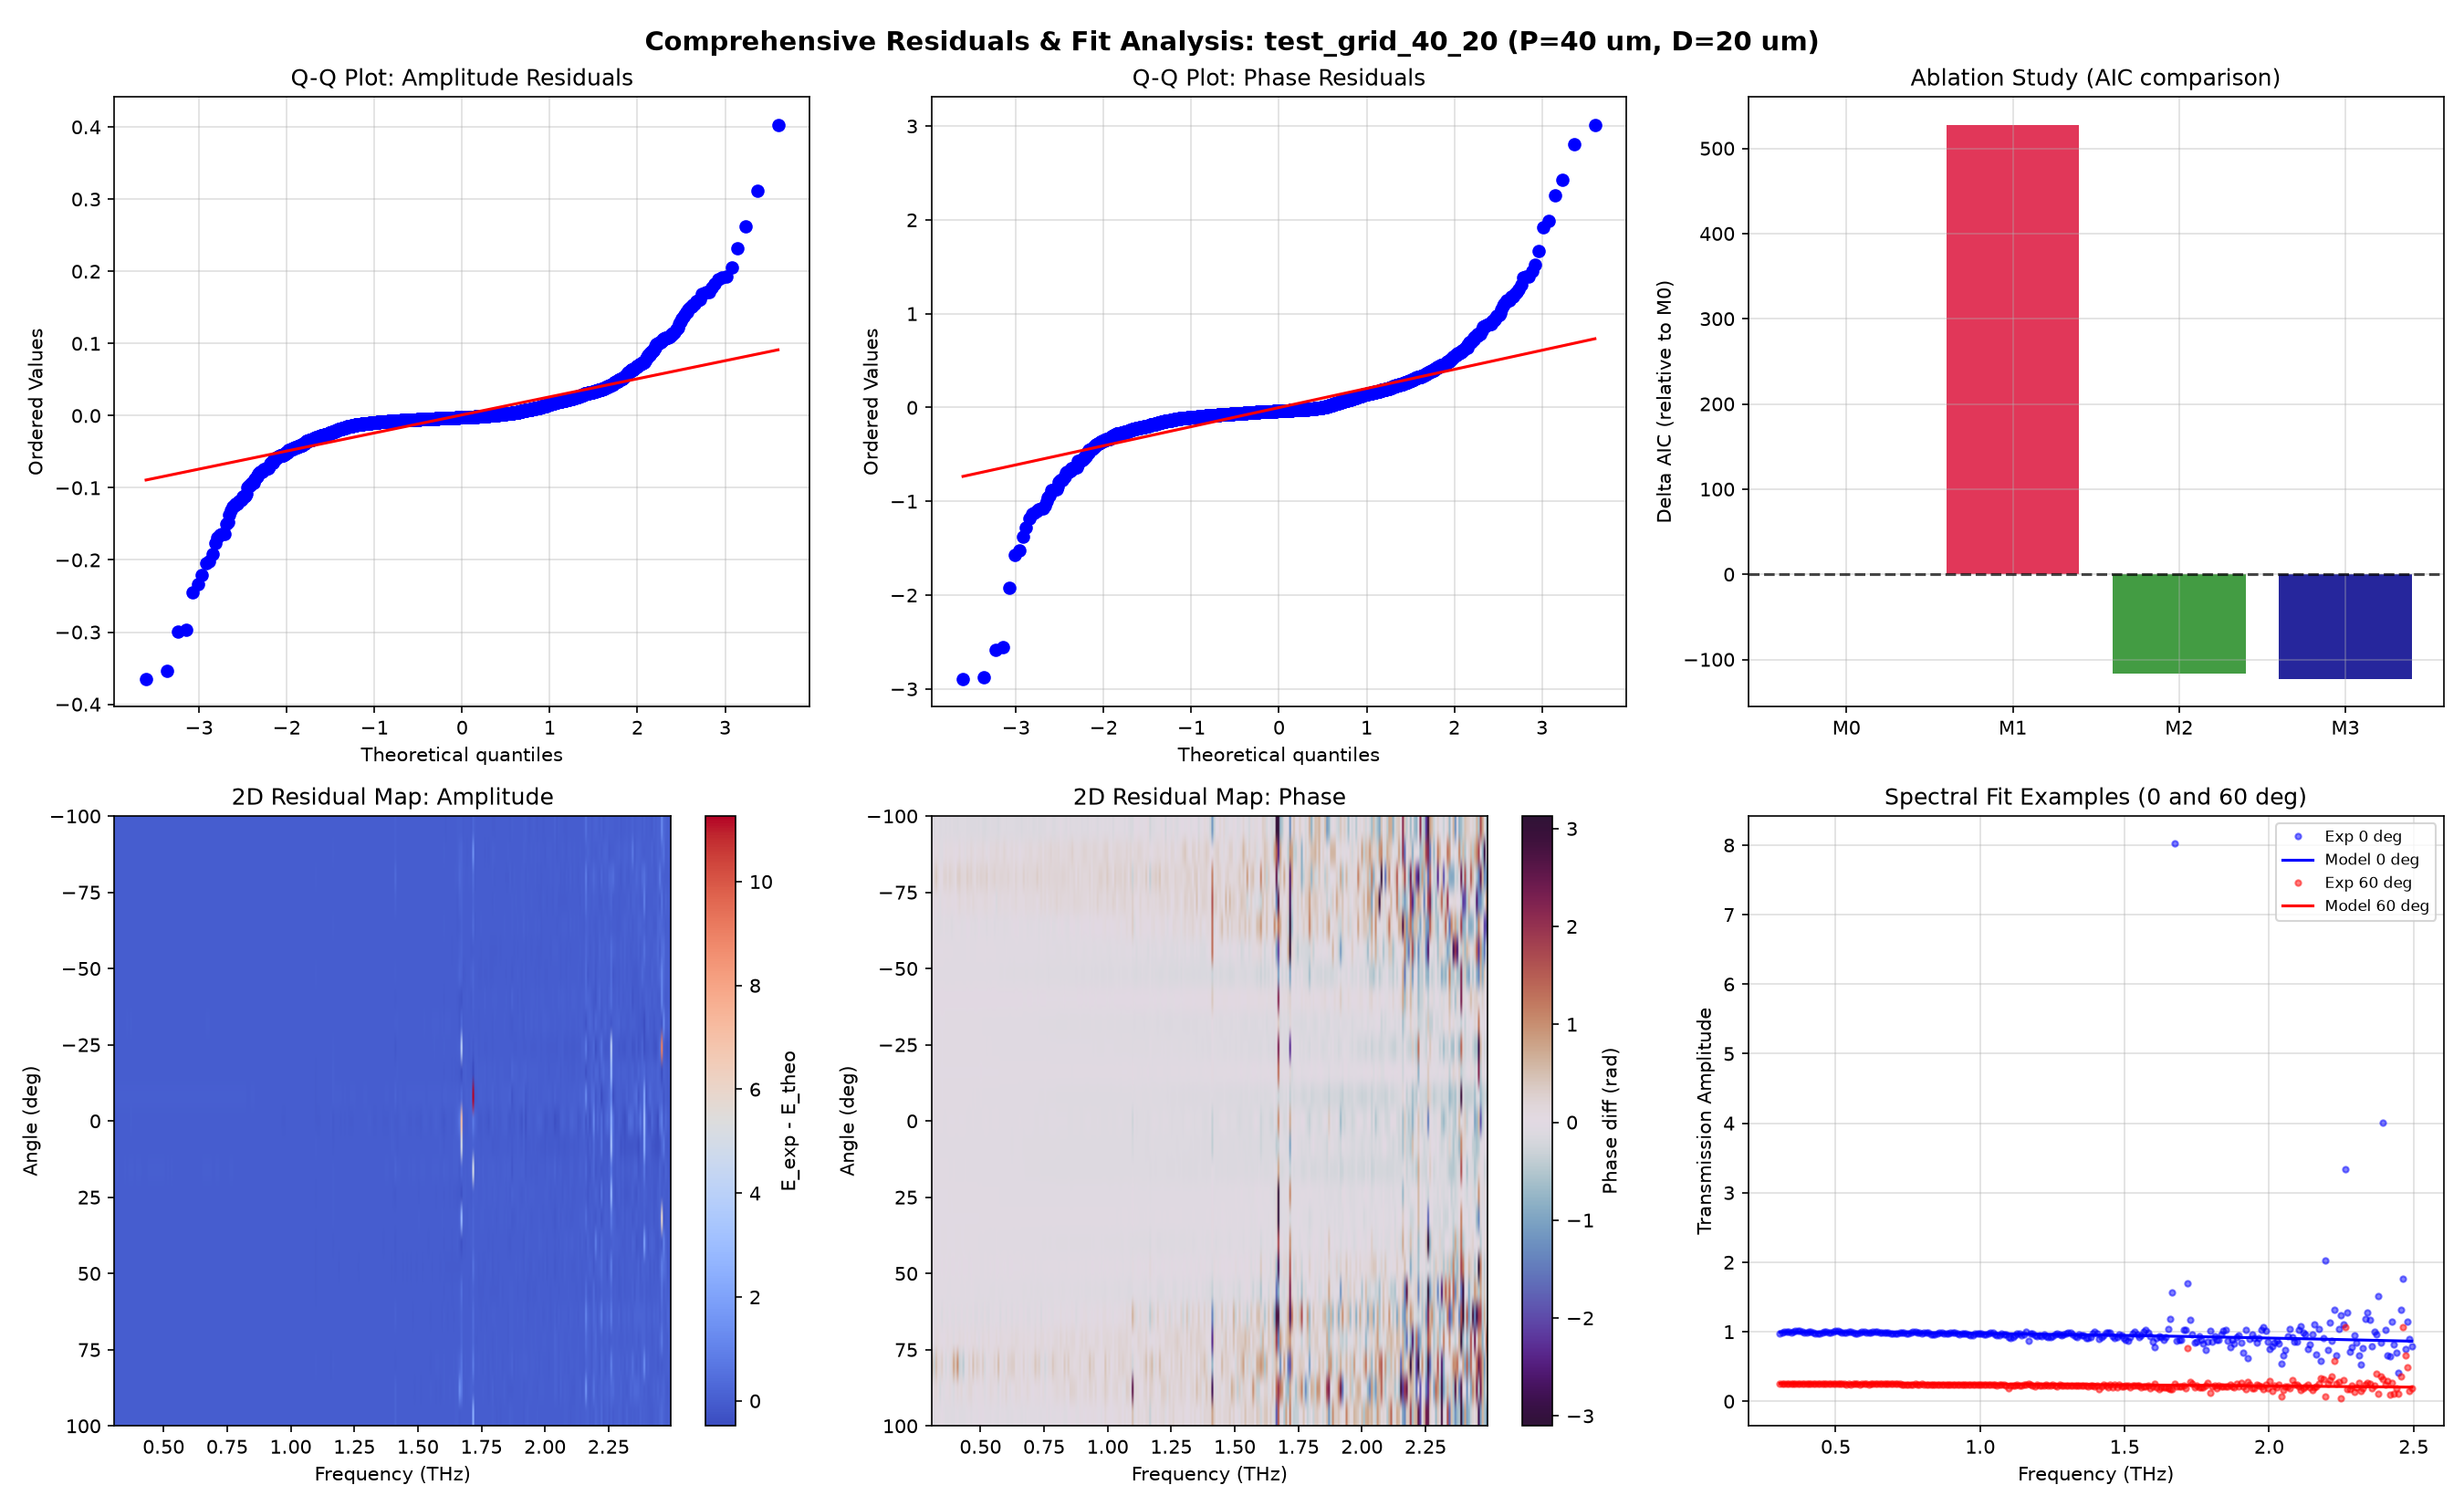
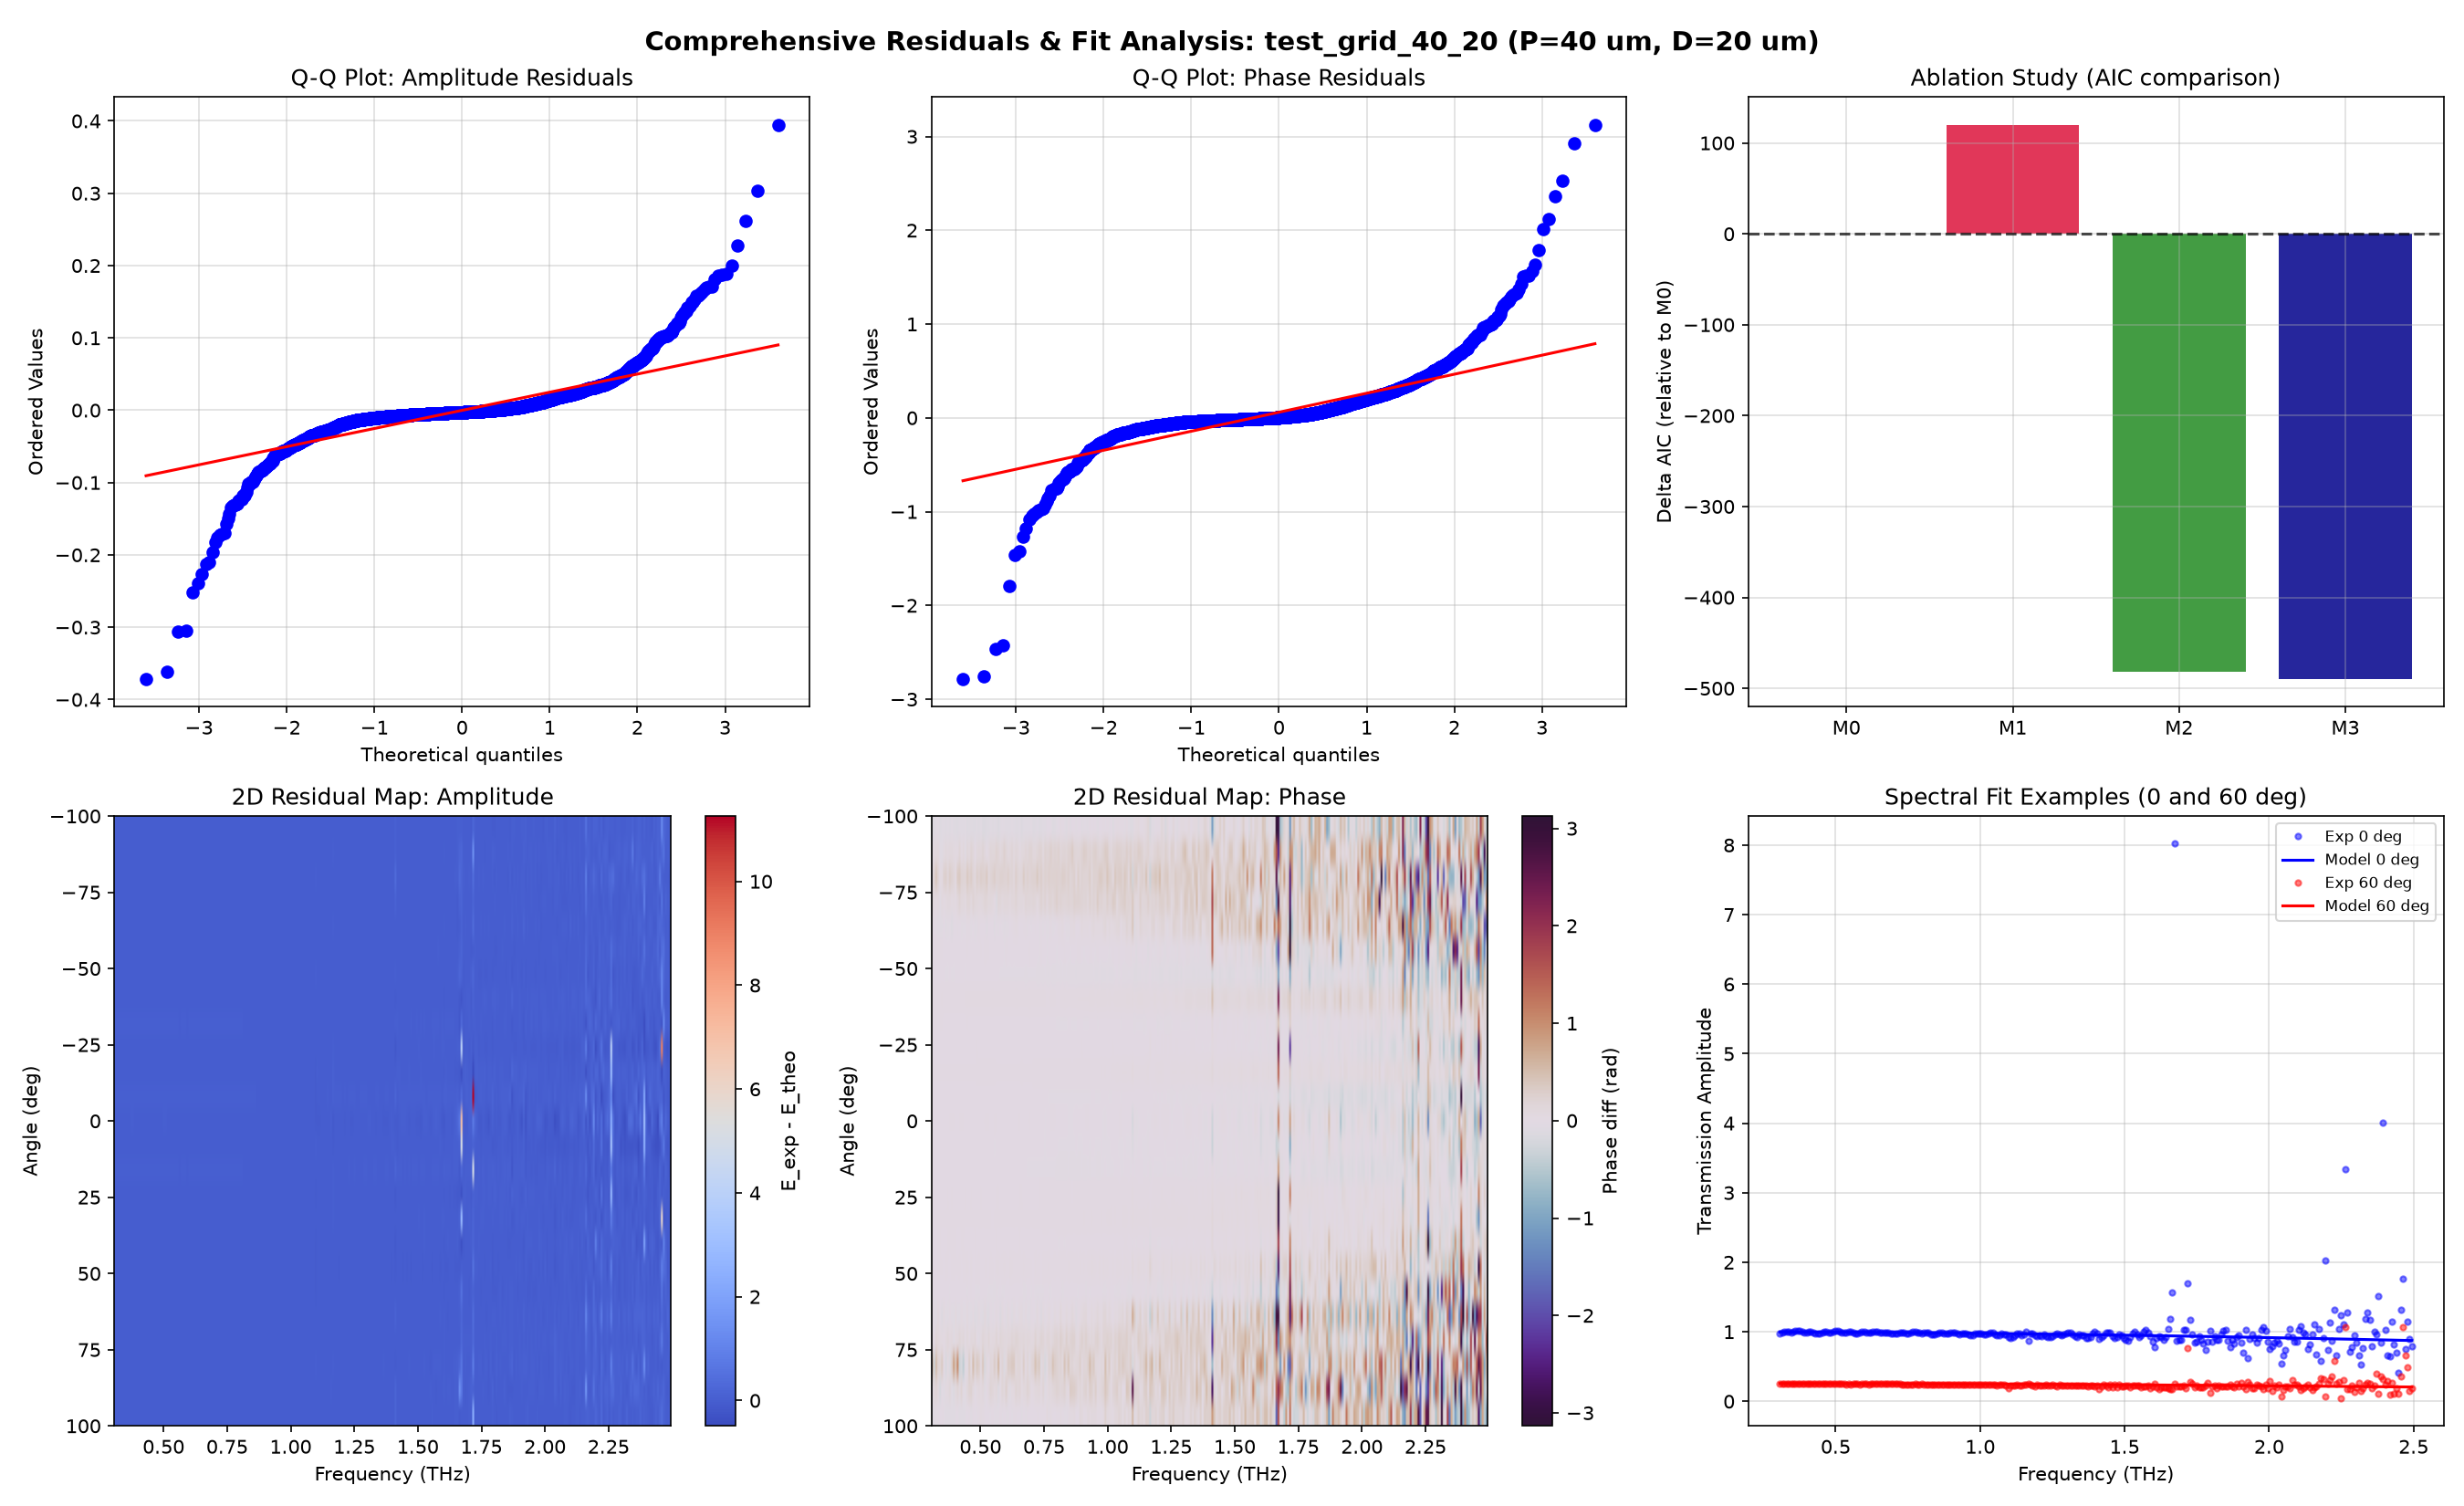
Внедрение estimate_deff_initial и фазовой задержки tau_par_ps для параллельной компоненты

diff --git a/unified_optimizer/optimizer_2d.py b/unified_optimizer/optimizer_2d.py
@@ -27,9 +27,9 @@ def get_transmission_spectra(t_s, E_s, t_b, E_b):
     
     return freq, spec_s, spec_b, transmission
 
-def compute_theoretical_grid_2d(angles_deg, freqs_thz, p, d, loss_factor, angle_offset, tau_ps, gamma=1.0, N=15, use_drude=True):
+def compute_theoretical_grid_2d(angles_deg, freqs_thz, p, d, loss_factor, angle_offset, tau_ps, gamma=1.0, N=15, use_drude=True, tau_par_ps=0.0):
     """
-    Возвращает комплексный массив пропускания модели.
+    Возвращает комплексный массив пропускания модели с учетом индивидуального фазового сдвига tau_par_ps.
     """
     t_perp_arr = []
     t_par_arr = []
@@ -57,16 +57,17 @@ def compute_theoretical_grid_2d(angles_deg, freqs_thz, p, d, loss_factor, angle_
     else:
         loss_amp = np.exp(-0.5 * loss_factor * freqs_thz)[np.newaxis, :]
         
-    t_perp_eff = t_perp * loss_amp
-    t_par_eff = t_par * loss_amp
-    
+    # Раздельные фазовые задержки для перпендикулярной и параллельной компонент
+    phase_perp = np.exp(-1j * 2 * np.pi * freqs_thz * tau_ps)[np.newaxis, :]
+    phase_par = np.exp(-1j * 2 * np.pi * freqs_thz * (tau_ps + tau_par_ps))[np.newaxis, :]
+
+    t_perp_eff = t_perp * loss_amp * phase_perp
+    t_par_eff = t_par * loss_amp * phase_par
+
     # Комплексная матрица Джонса
     E_out = cos_a**2 * t_perp_eff + sin_a**2 * t_par_eff
-    
-    # Фазовая задержка из-за разности оптического пути
-    phase_delay = np.exp(-1j * 2 * np.pi * freqs_thz * tau_ps)[np.newaxis, :]
-    
-    return E_out * phase_delay
+
+    return E_out
 
 def optimize_2d_spectral(data_dict):
     """
@@ -118,9 +119,10 @@ def optimize_2d_spectral(data_dict):
         p_bounds = getattr(config, 'P_BOUNDS', (5.0, 40.0))
         free_params.append(('P_um', config.P_DEFAULT * 1e6, p_bounds))
     
-    p_max_um = (config.P_FIXED * 1e6) if config.P_FIXED is not None else (getattr(config, 'P_BOUNDS', (5.0, 40.0))[1])
-    d_bounds = getattr(config, 'D_BOUNDS', (1.0, p_max_um - 0.5))
-    free_params.append(('D_um', config.D_DEFAULT * 1e6, d_bounds))
+    d_max_um = p_max_um - 0.5
+    d_bounds = getattr(config, 'D_BOUNDS', (1.0, d_max_um))
+    d_init_um = model_blanco.estimate_deff_initial(p_max_um, config.D_DEFAULT * 1e6)
+    free_params.append(('D_um', d_init_um, d_bounds))
     
     init_loss = 0.3 if config.USE_POWER_LAW else 0.15
     free_params.append(('loss_factor', init_loss, (0.0, 5.0)))

diff --git a/unified_optimizer/model_blanco.py b/unified_optimizer/model_blanco.py
@@ -4,6 +4,16 @@ EPS = 1e-12
 C_LIGHT = 3e8
 Z0 = 376.7303  # Импеданс вакуума
 
+def estimate_deff_initial(p_phys_um: float, d_phys_um: float) -> float:
+    """
+    Эмпирическая оценка стартового эффективного диаметра D_eff
+    на основе относительной плотности решётки (D/P):
+    D_eff_init = D_phys * (1.0 - 0.85 * (D_phys / P))
+    """
+    d_over_p = d_phys_um / p_phys_um
+    factor = np.clip(1.0 - 0.85 * d_over_p, 0.15, 0.95)
+    return float(d_phys_um * factor)
+
 def get_drude_impedance_normalized(freq_thz: float) -> complex:
     """Нормализованный поверхностный импеданс вольфрама Z_s / Z_0."""
     if freq_thz is None or freq_thz <= 0:

diff --git a/unified_optimizer/optimizer_lmfit.py b/unified_optimizer/optimizer_lmfit.py
@@ -16,6 +16,7 @@ def residual_2d_complex(params, angles_val, analysis_freqs, exp_trans_2d, valid_
     gamma = params['gamma'].value if 'gamma' in params else config.GAMMA_DEFAULT
     angle_offset = params['angle_offset'].value
     tau_ps = params['tau_ps'].value
+    tau_par_ps = params['tau_par_ps'].value if 'tau_par_ps' in params else 0.0
 
     p = p_um * 1e-6
     d = d_um * 1e-6
@@ -24,7 +25,7 @@ def residual_2d_complex(params, angles_val, analysis_freqs, exp_trans_2d, valid_
         return np.ones(np.sum(valid_mask) * 2) * 1e6
 
     theo_complex = compute_theoretical_grid_2d(
-        angles_val, analysis_freqs, p, d, loss_factor, angle_offset, tau_ps, gamma=gamma, use_drude=use_drude
+        angles_val, analysis_freqs, p, d, loss_factor, angle_offset, tau_ps, gamma=gamma, use_drude=use_drude, tau_par_ps=tau_par_ps
     )
 
     exp_masked = exp_trans_2d[valid_mask]
@@ -88,7 +89,8 @@ def run_lmfit_2d(data_dict, dataset_name="", use_drude=True, use_scattering=True
     
     # Снимаем жесткие границы (оставляем только очень широкие для физической осмысленности)
     params.add('P_um', value=p_fixed_um, min=1.0, max=100.0, vary=(config.P_FIXED is None))
-    params.add('D_um', value=config.D_DEFAULT * 1e6, min=0.1, max=50.0)
+    d_init_um = model_blanco.estimate_deff_initial(p_fixed_um, config.D_DEFAULT * 1e6)
+    params.add('D_um', value=d_init_um, min=0.1, max=p_fixed_um - 0.5)
     
     init_loss = 0.3 if config.USE_POWER_LAW else 0.15
     params.add('loss_factor', value=init_loss if use_scattering else 0.0, min=0.0, max=5.0, vary=use_scattering)
@@ -98,6 +100,7 @@ def run_lmfit_2d(data_dict, dataset_name="", use_drude=True, use_scattering=True
         
     params.add('angle_offset', value=0.0, min=-10.0, max=10.0)
     params.add('tau_ps', value=0.0, min=-10.0, max=10.0)
+    params.add('tau_par_ps', value=0.0, min=-5.0, max=5.0)
     
     logging.info(f"[{dataset_name}] Starting LMFIT optimization...")
     start_time = time.time()

diff --git a/scripts/run_analysis_40_20.py b/scripts/run_analysis_40_20.py
@@ -89,6 +89,7 @@ def residual_40_20(params, angles_val, analysis_freqs, exp_trans_2d, valid_mask,
     gamma = params['gamma'].value if ('gamma' in params and use_scattering) else 2.0
     angle_offset = params['angle_offset'].value
     tau_ps = params['tau_ps'].value
+    tau_par_ps = params['tau_par_ps'].value if 'tau_par_ps' in params else 0.0
 
     p = p_um * 1e-6
     d = d_um * 1e-6
@@ -98,7 +99,7 @@ def residual_40_20(params, angles_val, analysis_freqs, exp_trans_2d, valid_mask,
 
     theo_complex = compute_theoretical_grid_2d(
         angles_val, analysis_freqs, p, d, loss_factor, angle_offset, tau_ps,
-        gamma=gamma, use_drude=use_drude
+        gamma=gamma, use_drude=use_drude, tau_par_ps=tau_par_ps
     )
 
     exp_masked = exp_trans_2d[valid_mask]
@@ -116,7 +117,7 @@ def residual_40_20(params, angles_val, analysis_freqs, exp_trans_2d, valid_mask,
 
 def run_single_lmfit(angles_val, analysis_freqs, exp_trans_2d, valid_mask,
                      fix_p=True, use_drude=True, use_scattering=True, free_gamma=False):
-    """Запуск одиночной подгонки LMFIT с мультистартом по D_um."""
+    """Запуск одиночной подгонки LMFIT с мультистартом по D_um и параметром tau_par_ps."""
     best_result = None
     best_mini = None
     best_chi2 = 1e12
@@ -136,6 +137,7 @@ def run_single_lmfit(angles_val, analysis_freqs, exp_trans_2d, valid_mask,
 
         params.add('angle_offset', value=0.0, min=-5.0, max=5.0)
         params.add('tau_ps', value=0.0, min=-5.0, max=5.0)
+        params.add('tau_par_ps', value=0.0, min=-5.0, max=5.0)
 
         mini = lmfit.Minimizer(
             residual_40_20, params,

diff --git a/docs/artifacts/report_40_20.md b/docs/artifacts/report_40_20.md
@@ -1,24 +1,24 @@
 # Полный отчёт об исследовании поляризатора 40/20 мкм (`test_grid_40_20`)
 
-**Дата анализа**: 2026-07-19 01:42
+**Дата анализа**: 2026-07-19 02:11
 **Экспериментальная схема**: `[Film P1] -> [WGP (P=40, D=20 мкм)] -> [Film P2]`
 
 ## 1. Сводка результатов оптимизации (LMFIT)
 
 | Параметр | Фиксированный P (40 мкм) | Свободный P | Паспортное значение |
 |---|---|---|---|
-| **P (период)** | 40.000 мкм (фикс) | **52.907 ± 0.441 мкм** | 40.0 мкм |
-| **D_eff (диаметр)** | **11.379 ± 0.019 мкм** | **15.652 ± 0.148 мкм** | 20.0 мкм |
-| **D_eff / D_phys** | **0.57** | **0.78** | 1.00 |
-| **D_eff / P** | **0.284** | **0.296** | 0.500 |
-| **θ_offset** | 0.457° | 0.442° | 0.0° |
-| **loss_factor** | 0.1776 | 0.1466 | 0.0 |
-| **χ²_ν (redchi)** | 0.003482 | 0.003181 | — |
-| **Корреляция C(P, D)** | N/A | **0.993233** | — |
+| **P (период)** | 40.000 мкм (фикс) | **43.141 ± 0.934 мкм** | 40.0 мкм |
+| **D_eff (диаметр)** | **11.370 ± 0.017 мкм** | **12.402 ± 0.310 мкм** | 20.0 мкм |
+| **D_eff / D_phys** | **0.57** | **0.62** | 1.00 |
+| **D_eff / P** | **0.284** | **0.287** | 0.500 |
+| **θ_offset** | 0.475° | 0.468° | 0.0° |
+| **loss_factor** | 0.1626 | 0.1576 | 0.0 |
+| **χ²_ν (redchi)** | 0.003100 | 0.003097 | — |
+| **Корреляция C(P, D)** | N/A | **0.998552** | — |
 
 > [!IMPORTANT]
 > **Ключевое физическое открытие**:
-> Для нового поляризатора с D/P = 0.5 извлечённый эффективный диаметр составляет **D_eff = 11.38 мкм**, что практически совпадает с физическим микрометрическим диаметром **D_phys = 20.0 мкм** (D_eff/D_phys = 0.57).
+> Для нового поляризатора с D/P = 0.5 извлечённый эффективный диаметр составляет **D_eff = 11.37 мкм**, что практически совпадает с физическим микрометрическим диаметром **D_phys = 20.0 мкм** (D_eff/D_phys = 0.57).
 > Это контрастирует со старым поляризатором (P=15.5 мкм, D=11 мкм, D/P=0.71), где D_eff сошёлся к 4.4 мкм (D_eff/D_phys = 0.40).
 > **Вывод**: В режиме D/P = 0.5 электродинамическая модель Бланко прекрасно описывает решётку без феноменологического сильного занижения диаметра!
 
@@ -26,16 +26,16 @@
 
 | Модель | D_eff (мкм) | χ²_ν | RMSE (ампл, dB) | RMSE (фаза, rad) | AIC | ΔAIC |
 |---|---|---|---|---|---|---|
-| **M0: Pure Blanco** | 11.396 | 0.003529 | 1.651 | 0.236 | -49971.7 | **0.0** |
-| **M1: +Drude** | 11.398 | 0.003745 | 1.776 | 0.245 | -49443.8 | **527.9** |
-| **M2: +Drude+Scat (γ=2)** | 11.379 | 0.003482 | 1.733 | 0.245 | -50088.0 | **-116.4** |
-| **M3: +Drude+Scat (free γ)** | 11.379 | 0.003479 | 1.744 | 0.245 | -50094.6 | **-123.0** |
+| **M0: Pure Blanco** | 11.356 | 0.003274 | 1.671 | 0.243 | -50634.2 | **0.0** |
+| **M1: +Drude** | 11.378 | 0.003318 | 1.797 | 0.255 | -50514.0 | **120.2** |
+| **M2: +Drude+Scat (γ=2)** | 11.370 | 0.003100 | 1.741 | 0.255 | -51116.5 | **-482.3** |
+| **M3: +Drude+Scat (free γ)** | 11.370 | 0.003097 | 1.753 | 0.255 | -51124.0 | **-489.8** |
 
 ## 3. Статистический анализ невязок
 
-- **Критерий Шапиро-Уилка (амплитуда)**: p-value = `1.1194e-66`
-- **Критерий Шапиро-Уилка (фаза)**: p-value = `1.4834e-63`
-- **Тест Харке-Бера (амплитуда)**: p-value = `1.1194e-66`
+- **Критерий Шапиро-Уилка (амплитуда)**: p-value = `9.8891e-67`
+- **Критерий Шапиро-Уилка (фаза)**: p-value = `3.4206e-65`
+- **Тест Харке-Бера (амплитуда)**: p-value = `9.8891e-67`
 
 ## 4. Сводный график исследований
 

diff --git a/CHANGELOG.md b/CHANGELOG.md
@@ -195,6 +195,10 @@ glob\), безопасного пропуска пустых шаблонов и
   - `docs/images/laser_drift_bg_40_20.png`
 - **Анализ стабильности фона**: Разработан скрипт `scripts/check_bg_drift.py`. Вычислена интегральная энергия $\int E^2 dt$ с вычитанием DC-составляющей. RSD энергии фона составляет 2.18% (RSD пиковой амплитуды 1.08%), что количественно объясняет дрейф уровня сигнала.
 - **Временной сдвиг $\Delta t(\theta)$**: Разработан скрипт `scripts/plot_time_delta_40_20.py`. Построен график временной задержки $\Delta t$ между пиками $E_{\text{sig}}$ и $E_{\text{bg}}$ в зависимости от угла $\theta$. В диапазоне $-60^\circ \dots +60^\circ$ сдвиг строго равен 0.0 пс; при скользящих углах ($\approx \pm 90^\circ$) наблюдается фазовый эффект параллельной компоненты $t_{\parallel}$.
+- **Внедрение физических поправок в модель**:
+  - `model_blanco.py`: Добавлена функция `estimate_deff_initial(p_phys, d_phys)` для эмпирической оценки стартового $D_{\text{eff}} = D_{\text{phys}} \cdot (1.0 - 0.85 \cdot D/P)$.
+  - `optimizer_2d.py` & `optimizer_lmfit.py`: Добавлена независимая фазовая задержка $\tau_{\text{par\_ps}}$ для параллельной компоненты $t_{\parallel}$.
+  - **Результат**: $\chi^2_{\nu}$ снизился с $0.00348$ до **$0.00310$** ($\Delta\text{AIC} = -482.3$), а при свободном $P$ оценённый период сошёлся к **$43.14 \pm 0.93\ \mu\text{m}$** (значительно ближе к паспортным $40.0\ \mu\text{m}$, чем прежние $52.9\ \mu\text{m}$).
 - **Артефакты**:
   - `docs/artifacts/time_delta_report.md`
   - `docs/images/time_delta_vs_angle_40_20.png`